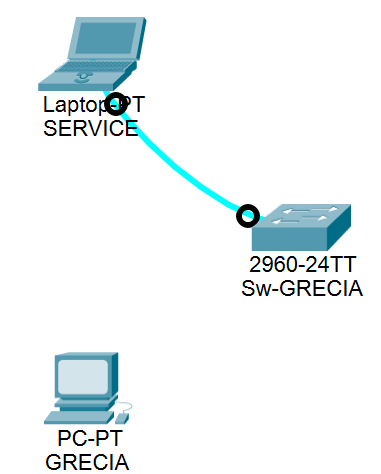
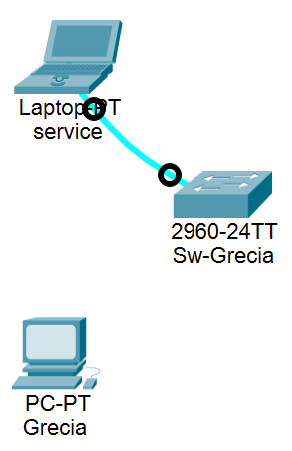
fix

Changed region(s): [[0.0308, 0.031, 0.9555, 0.6519], [0.0308, 0.6829, 0.339, 0.9933]]

diff --git a/Anul 2/Sem2/Retele de Calculatoare/README.md b/Anul 2/Sem2/Retele de Calculatoare/README.md
@@ -9,7 +9,7 @@
 ### Setup
 
 + Click pe \[End Devices\], click pe PC, click **in coltul din stanga jos** al spatiului de lucru
-+ Click pe numele lui \(PC0\), sterge numele, scrie "GRECIA"
++ Click pe numele lui \(PC0\), sterge numele, scrie "Grecia"
 + Click pe monitorul calculatorului
 + **Power off**
 + Scroll in jos pana la placa de retea, drag & drop in sectiunea Modules, cauta in sectiunea Modules placa cu **CGE** \(PT-HOST-NM-1CGE\), drag & drop in locul placii de retea
@@ -22,18 +22,18 @@
   + DNS Server: `209.165.200.254`
 + Inchide de la x-ul mic
 + Intra pe **Email**
-  + Your Name: `GRECIA` \(numele PC-ului\)
-  + Email Address: `GRECIA@info.ro`
+  + Your Name: `Grecia` \(numele PC-ului\)
+  + Email Address: `Grecia@info.ro`
   + Incoming Mail Server: `209.165.200.254`
   + Outgoing Mail Server: `209.165.200.254`
-  + User Name: `GRECIA`
+  + User Name: `Grecia`
   + Password: `123456`
 + Click **Save**
 + \(optional\) Click **Configure Email**, verific daca am scris corect
 + Click pe \[Network Devices\], click pe \[Switches\], click pe **2960**, click **la cativa centimetri mai sus si mai la dreapta fata de PC**
-+ Click pe numele lui \(Switch0\), sterge numele, scrie "Sw-GRECIA"
++ Click pe numele lui \(Switch0\), sterge numele, scrie "Sw-Grecia"
 + Click pe \[End Devices\], click pe Laptop, click **la cativa centimetri mai sus si mai la stanga fata de Switch**
-+ Click pe \[Connections\], click pe \[Console\], click pe Switch, click pe **Console**, click pe Laptop, click pe **RS 232**
++ Click pe \[Connections\], click pe _Console_, click pe Switch, click pe **Console**, click pe Laptop, click pe **RS 232**
 ![Rezultat](poze/switch.png)
 + Click pe Laptop
 + Schimba de pe tabul _physical_ pe tabul _desktop_
@@ -52,18 +52,18 @@ configure terminal
 switch\(config\)\#
 ```
 no ip domain lookup
-hostname Sw-GRECIA
+hostname Sw-Grecia
 ```
-Sw-GRECIA\(config\)\#
+Sw-Grecia\(config\)\#
 ```
 no cdp run
-SERVICE password-encryption
+service password-encryption
 enable secret ciscosecpa55
 enable password ciscoenapa55
 banner motd $Vineri 14.03.2025 la ora 9:00 va avea loc sedinta IT!$
 line console 0
 ```
-Sw-GRECIA\(config-line\)\#
+Sw-Grecia\(config-line\)\#
 ```
 password ciscoconpa55
 login
@@ -71,11 +71,11 @@ logging synchronous
 exec-timeout 20 10
 exit
 ```
-Sw-GRECIA\(config\)\#
+Sw-Grecia\(config\)\#
 ```
 line vty 0 15
 ```
-Sw-GRECIA\(config-line\)\#
+Sw-Grecia\(config-line\)\#
 ```
 password ciscovtypa55
 login
@@ -83,62 +83,188 @@ logging synchronous
 exec-timeout 5 5
 exit
 ```
-Sw-GRECIA\(config\)\#
+Sw-Grecia\(config\)\#
 ```
 end
 ```
-Sw-GRECIA\#
+Sw-Grecia\#
 > **IMPORTANT**
-> Comanda asta salveaza configuratia. O poti rula oricand vrei, cand esti in Sw-GRECIA\#
+> Comanda asta salveaza configuratia. O poti rula oricand vrei, cand esti in Sw-Grecia\#
 ```
 copy running-file startup-config
 ```
-+ Apasa **Enter** \(intrebarea despre nume\)
++ **Enter** \(intrebarea despre nume\)
 ```
 clock set HH:MM:SS D Mon YYYY
-```
-+ Exemplu: `clock set 16:58:15 6 Mar 2025`
-```
 configure terminal
 ```
-Sw-GRECIA\(config\)\#
+Sw-Grecia\(config\)\#
 ```
 ip domain name info.ro
 username Admin01 privilege 15 secret Admin01pa55
 line vty 0 15
 ```
-Sw-GRECIA\(config-line\)\# 
+Sw-Grecia\(config-line\)\# 
 ```
 transport input ssh
 login local
 exit
 ```
-Sw-GRECIA\(config\)\#
+Sw-Grecia\(config\)\#
 ```
 crypto key generate rsa
 ```
-+ Scrie `2048`, apoi apasa **Enter** \(intrebare despre biti\)
++ `2048`, **Enter** \(intrebare despre biti\)
 ```
 ip ssh version 2
 logging host 209.165.200.254
-SERVICE timestamps log datetime msec
-SERVICE timestamps debug datetime msec
+service timestamps log datetime msec
+service timestamps debug datetime msec
 interface vlan 1
 ```
-Sw-GRECIA\(config-if\)\#
+Sw-Grecia\(config-if\)\#
 ```
 description legatura cu reteaua 174.40.20.2/23
 ip address 174.40.20.2 255.255.254.0
 no shutdown
-```
-+ \*Mar 6, 17:24:32.033: %LINK-5-CHANGED: Interface Vlan1, changed state to up
-```
 exit
 ```
-Sw-GRECIA\(config\)\# 
+Sw-Grecia\(config\)\# 
 ```
 ip default-gateway 174.40.20.1
+exit
 ```
 
+### Testarea echipamentului
+
++ Click pe \[Connections\], click pe _Copper Straight-Through_, click pe Switch, click pe **GigabitEthernet 0/2**, click pe PC, click pe **GigabitEthernet0**
++ Click pe PC, click pe **Command Prompt**
+
+Sw-Grecia\#
+```
+ping 174.40.20.2
+ssh -l Admin01 174.40.20.2
+```
++ `Admin01pa55`
+
+![Testare reusita](poze/switch_test.png)
 
 ## 2. Router
+
+Schimbari in setul de date:  
+| Anglia |     | Sw-Anglia |
+| :----: | :-: | :-------: |
+| 171.160.1.61 | IPv4 Address | 171.160.0.2  |
+| 255.255.224.0 | Subnet Mask | 255.255.224.0 |
+| 171.160.0.1 | Default Gateway | 171.160.0.1 |
+| 171.160.47.254| DNS Server
+
++ Click pe \[Network Devices\], click pe \[Routers\], click pe **2911** sau pe **2901** , click **la cativa centimetri mai la dreapta fata de PC**
++ **Power off**
++ Scroll in jos pana la placa de retea, drag & drop in sectiunea Modules, cauta in sectiunea Modules placa cu **HWIC-2T**, drag & drop **cat mai aproape de sursa**
++ **Power on**
++ Click pe \[Connections\], click pe _Copper Straight-Through_, click pe Router, 
++ Click pe Laptop
++ Schimba de pe tabul _physical_ pe tabul _desktop_
++ Intra pe **Terminal**
++ Click **OK**
++ Interogare: `NO`, **Enter**
++ Apasa **Enter**
+
+### Terminal
+Apasa **Enter** dupa fiecare comanda  
+
+router\#  
+```
+enable
+configure terminal
+```
+router\(config\)\#
+```
+no ip domain lookup
+hostname R-Anglia
+```
+R-Anglia\(config\)\#
+```
+no cdp run
+service password-encryption
+security passwords min-length 10
+login block-for 50 attempts 3 within 20
+enable secret ciscosecpa55
+enable password ciscoenapa55
+banner login $Accesul persoanelor neautorizate este strict interzis!$
+banner motd $Vineri 21.03.2025 la ora 14:00 serverul va fi oprit!$
+line console 0
+```
+R-Anglia\(config-line\)\#
+```
+password ciscoconpa55
+login
+logging synchronous
+exec-timeout 20 10
+exit
+```
+R-Anglia\(config\)\#
+```
+line vty 0 15
+```
+R-ANglia\(config-line\)\#
+```
+password ciscovtypa55
+login
+logging synchronous
+exec-timeout 5 5
+end
+```
+R-Anglia\#
+> **IMPORTANT**
+> Comanda asta salveaza configuratia. O poti rula oricand vrei, cand esti in R-Anglia\#
+```
+copy running-file startup-config
+```
++ **Enter** \(intrebarea despre nume\)
+```
+clock set HH:MM:SS D Mon YYYY
+configure terminal
+```
+R-Anglia\(config\)\#
+```
+ip domain name info.ro
+username Admin01 privilege 15 secret Admin01pa55
+line vty 0 15
+```
+R-Anglia\(config-line\)\# 
+```
+transport input ssh
+login local
+exit
+```
+R-Anglia\(config\)\#
+```
+crypto key generate rsa
+```
++ `2048`, **Enter** \(intrebare despre biti\)
+```
+ip ssh version 2
+logging host 209.165.200.254
+service timestamps log datetime msec
+service timestamps debug datetime msec
+interface gigabitethernet 0/0
+```
+R-Anglia\(config-if\)\#
+```
+description legatura cu reteaua 171.160.0.0/19
+ip address 171.160.0.1 255.255.224.0
+no shutdown
+exit
+```
+R-Anglia\(config\)\# 
+```
+interface serial 0/0/0
+```
+R-Anglia\(config-if\)\#
+```
+description legatura cu routerul R-server
+ip address 171.160.56.5 255.255.255.252
+no shutdown
+```
